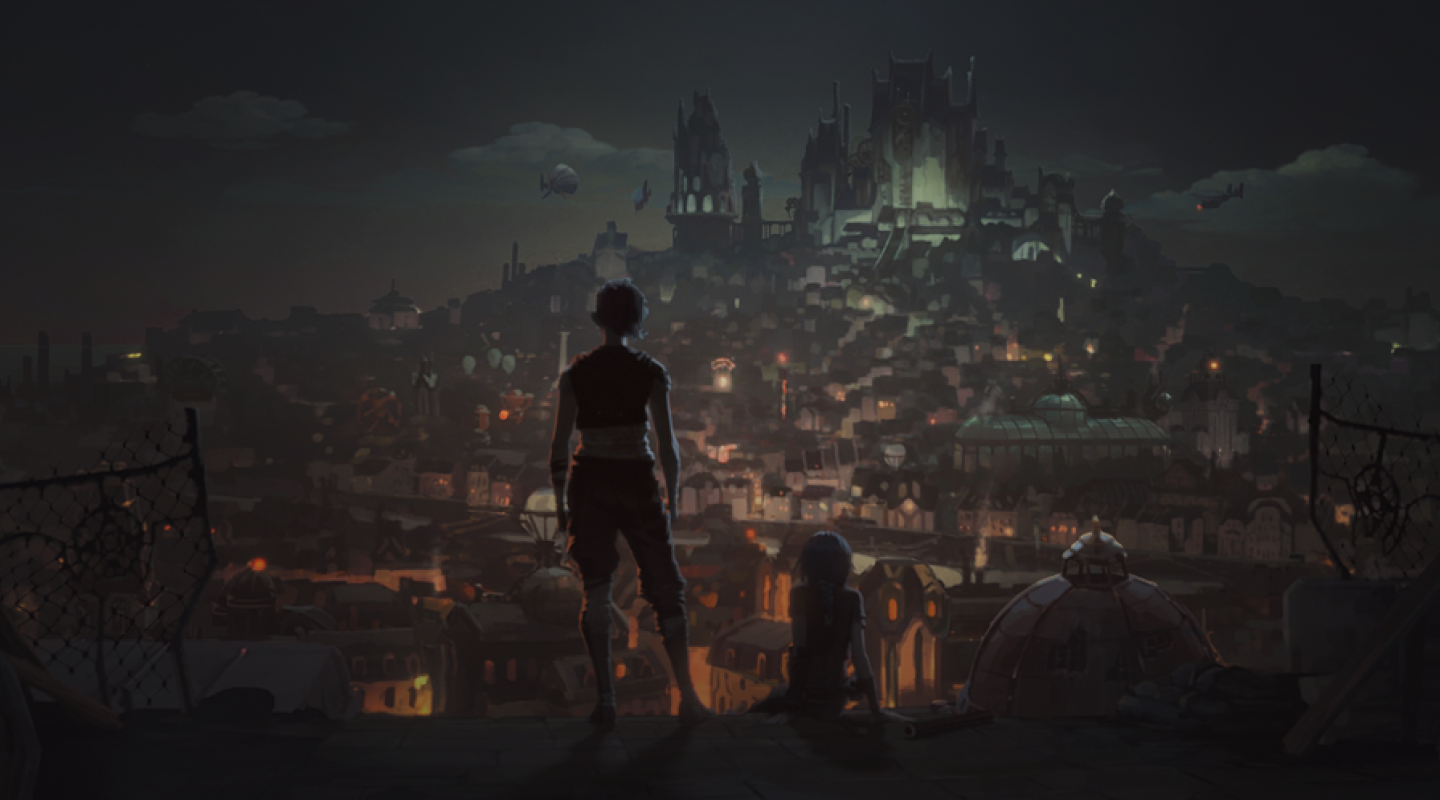
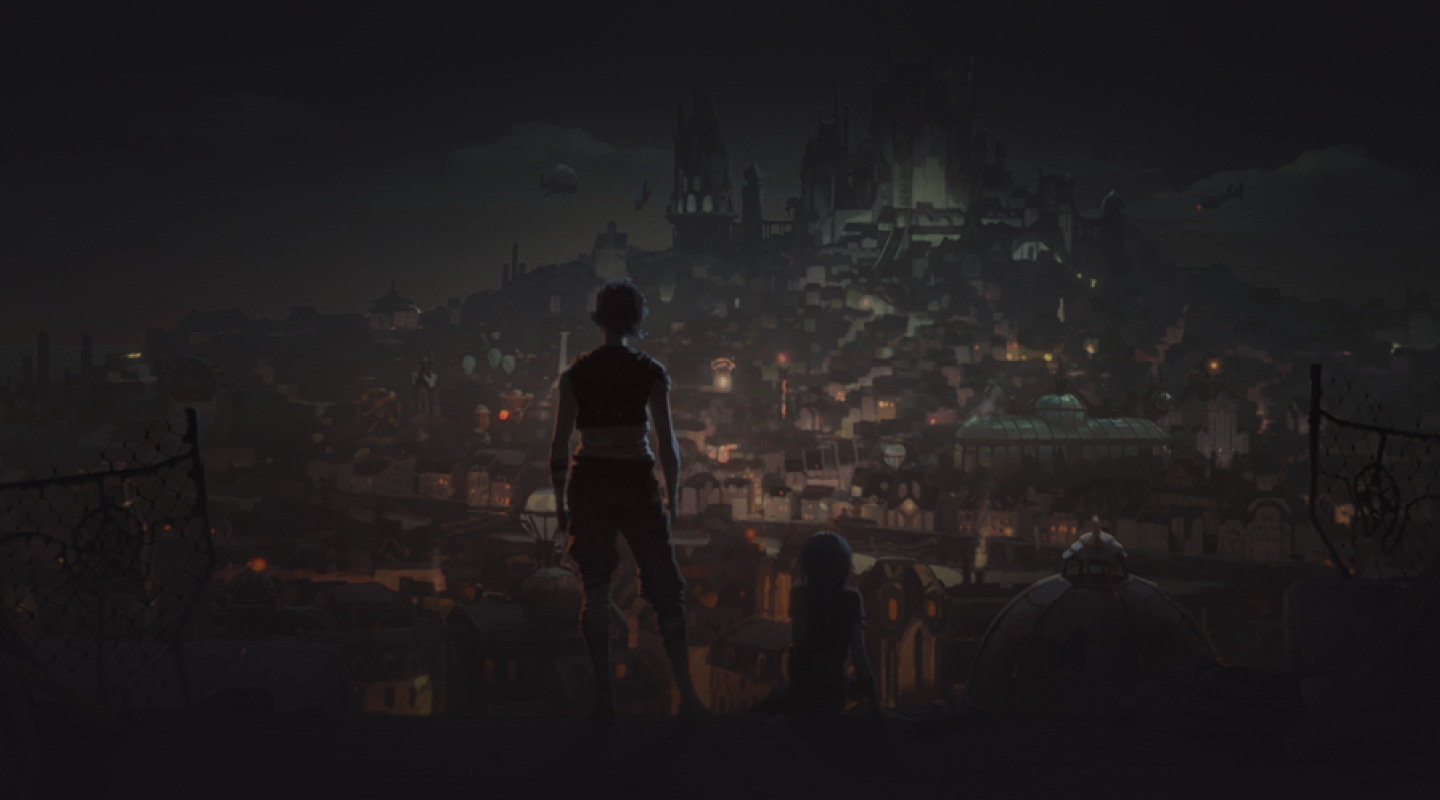
Styles are added to the home page and some images are modified

diff --git a/index.html b/index.html
@@ -1,0 +1,121 @@
+<!DOCTYPE html>
+<html lang="es-Es">
+
+<head>
+    <meta charset="UTF-8">
+    <meta http-equiv="X-UA-Compatible" content="IE=edge">
+    <meta name="viewport" content="width=device-width, initial-scale=1.0">
+    <link rel="stylesheet" type="text/css" href="/css/style.css">
+    <script src="https://kit.fontawesome.com/98bd21cde9.js" crossorigin="anonymous"></script>
+    <title>Arcane</title>
+</head>
+
+<body>
+
+    <header>
+        <nav>
+            <a href="#"><img src="/assets/img/logo.svg" alt="Logo de Arcane"></a>
+            <div class="nav_items">
+                <div class="nav_item item_one">
+                    <a href="#">Episodios</a>
+                    <div>
+                    <img src="/assets/img/vector-nav.svg" alt="vector de item de navbar"></div>
+                </div>
+                <div class="nav_item item_two">
+                    <a href="#">Historia</a>
+                    <img src="/assets/img/vector-nav.svg" alt="vector de item de navbar">
+                </div>
+                <div class="nav_item item_three">
+                    <a href="#">Personajes</a>
+                    <img src="/assets/img/vector-nav.svg" alt="vector de item de navbar">
+                </div>
+            </div>
+        </nav>
+    </header>
+    
+    <main>
+
+        <section class="banner">
+            <img src="/assets/img/index/banner.png" alt="Banner de Arcane" class="banner_background">
+            <div class="banner_information">
+                <img src="/assets/img/index/arcane-oficial-logo.png" alt="Logo oficial de Arcane" class="banner_logo">
+                <h3>Mientras la discordia separa las ciudades gemelas de Piltóver y Zaun, dos hermanas se enfrentan en una guerra feroz entre tecnologías mágicas y convicciones opuestas.</h3>
+                <div class="buttton_container">
+                    <h4>Disponible en</h4>
+                    <button class="button_netflix"><img src="/assets/img/index/logo-Netflix.png" alt="Logo de Netflix"></button>
+                </div>
+            </div>
+        </section>
+
+        <section class="story_summary">
+            <h1>Dos hermanas, dos ciudades y un descubrimiento que cambiará el mundo para siempre.</h1>
+            <img src="/assets/img/vector.svg" alt="vector decorativo" class="vector">
+            <p>En las ciudades de Piltover y Zaun, se palpa el desasosiego en el ambiente: inventores, ladrones, políticos y señores del crimen buscan liberarse de las ataduras de una sociedad fragmentada. Mientras la rebelión va cobrando fuerza, dos hermanas roban un artefacto de poder inimaginable. Los descubrimientos y el peligro son el trasfondo sobre el que nacerán héroes y se romperán vínculos. ¿Servirá este poder para cambiar el mundo o lo llevará a la ruina? Este es el mundo de Arcane.</p>
+        </section>
+
+        <section class="characters">
+            <h1>Personajes</h1>
+            <img src="/assets/img/vector.svg" alt="vector decorativo">
+            <div class="characters_summary">
+                <img src="/assets/img/characters/vi.png" alt="Personaje Vi">
+                <article class="character">
+                    <img src="/assets/img/characters/jinx.png" alt="Personaje Jinx">
+                    <h2>Jinx</h2>  
+                </article>
+                <img src="/assets/img/characters/silco.png" alt="Personaje Silco">
+            </div>
+            <div class="controls">
+                <i class="fa-solid fa-play back"></i>
+                <i class="fa-solid fa-play"></i>
+            </div>
+        </section>
+
+        <section class="episodes">
+            <h1>Episodios</h1>
+            
+            <img src="/assets/img/vector.svg" alt="vector decorativo">
+            <div class="episodes-list">
+                <article class="episode">
+                    <img src="/assets/img/episodes/episodio1.png" alt="Miniatura episodio 1">
+                    <div class="episode_description">
+                        <div class="line"><hr/></div>
+                        <h4>Episodio 1</h4>
+                    </div>
+                </article>
+                <article class="episode">
+                    <img src="/assets/img/episodes/episodio2.png" alt="Miniatura episodio 1">
+                    <div class="episode_description">
+                        <div class="line"><hr/></div>
+                        <h4>Episodio 2</h4>
+                    </div>
+                </article>
+                <article class="episode">
+                    <img src="/assets/img/episodes/episodio3.png" alt="Miniatura episodio 1">
+                    <div class="episode_description">
+                        <div class="line"><hr/></div>
+                        <h4>Episodio 3</h4>
+                    </div>
+                </article>
+            </div>
+            <button>Ver lista de episodios</button>
+        </section>
+
+    </main>
+
+    <footer>
+        <img src="/assets/img/riot_games_logo.png" alt="Logo de Riot Games">
+
+        <div>
+            <div class="social_media">
+                <i class="fa-brands fa-spotify"></i>
+                <i class="fa-brands fa-square-facebook"></i>
+                <i class="fa-brands fa-instagram"></i>
+                <i class="fa-brands fa-twitter"></i>
+            </div>
+            <img src="/assets/img/vector_footer.svg" alt="Vector decorativo">
+        </div>
+    </footer>
+
+</body>
+
+</html>

diff --git a/css/style.css b/css/style.css
@@ -6,6 +6,8 @@
     --nav-footer-color: #0D0B0E;
     --paragraph-color: #FFF6EE;
     --title-color: #F3DCC7;
+    --border-color:#D3A742;
+    --hover-color:#FEBA8B;
 
     --body-font: 'Roboto', sans-serif;
 
@@ -27,22 +29,199 @@ header, footer{
     background-color: var(--nav-footer-color);
 }
 
+nav{
+    display: flex;
+    justify-content: space-between;
+}
+
+.nav_items{
+    display: flex;
+    justify-content: space-around;
+    align-items: center;
+    margin:0 60px;
+    width: 37%;
+}
+
+.nav_item{
+    display: flex;
+    flex-direction: column;
+    align-items: center;
+}
+
+.nav_item img{
+    display: none;
+}
+
 nav a{
     text-decoration: none;
     color: var(--paragraph-color);
-    font-size:25px
+    font-size:25px;
+    padding-left: 5px;
+}
+
+nav a:hover{
+    color: var(--hover-color);
 }
 
 h1{
     color: var(--title-color);
+    font-size: 40px;
+}
+
+.banner{
+    position: relative;
+}
+
+.banner_information{
+    position: absolute;
+    height: 100%;
+    width: 100%;
+    bottom: 0;
+    background: linear-gradient(to left,rgba(0, 0, 0, 0.88), rgba(0, 0, 0, 0.83), rgba(0, 0, 0, 0.326), rgba(0, 0, 0, 0.188));
+    display: flex;
+    flex-direction: column;
+    align-items: center;
+    justify-content: space-around;
+    text-align: end;
+    padding: 50px 100px 50px 50%;
+    font-size: 23px;
 }
 
 .banner_background{
     width: 100%;
 }
 
+.banner_information img{
+    width: 100%;
+}
+
+.buttton_container h4{
+    text-align: center;
+    margin-bottom: 15px;
+    font-weight: 400;
+}
+
+.button_netflix{
+    background-color: black;
+    padding: 0px 50px;
+    border: 1px solid var(--border-color);
+}
+
+.story_summary{
+    background: url('/assets/img/index/story_background.png') no-repeat center/cover;
+    padding:80px 30% 80px 0px;
+}
+
+.story_summary img{
+    width: 100%;
+}
+
+.story_summary h1{
+    width: 70%;
+    text-align: center;
+    margin: auto;
+}
+
+.story_summary p{
+    font-size: 22px;
+    margin: 40px auto;
+    width: 90%;
+}
+
+.characters, .episodes{
+    text-align: center;
+    padding: 40px;
+}
+
+
+.characters_summary{
+    display: flex;
+    justify-content: space-around;
+    padding: 40px;
+    background: url('/assets/img/index/vector-bg.png') no-repeat center/cover;
+    background-position-y: 200px
+}
+
+.character h2{
+    font-size: 35px;
+    margin-top: 30px;
+}
+
+.characters_summary img{
+    height: 350px;
+    width: 350px;
+    border-radius: 50%;
+    padding: 10px;
+    background: linear-gradient(#804524, #92613D, #D29466, #804524);
+}
+
+.controls{
+    width: 350px;
+    display: flex;
+    justify-content: space-between;
+    margin: -80px auto auto auto;
+}
+
+.controls i{
+    font-size: 40px;
+}
+
+.back{
+    transform: rotate(180deg);
+}
+
+.episodes-list{
+    display: flex;
+    justify-content: space-around;
+    padding: 40px;
+}
+
+.episodes{
+    background: url('/assets/img/index/episodes_background.png');
+}
+
+.episode{
+    border: 1px solid #92613D;
+    position: relative;
+}
+
+.episode_description{
+    width: 100%;
+    position: absolute;
+    top: 5px;
+    display: flex;
+    align-items: center;
+    justify-content: space-around;
+}
+
+.line{
+    width: 65%;
+}
+
+.episodes button{
+    background-color: var(--blue-color);
+    padding: 15px 40px;
+    color: white;
+    border: 1px solid var(--border-color);
+    font-size: 22px;
+}
+
+footer{
+    display: flex;
+    justify-content: space-between;
+    align-items: center;
+    padding: 40px 0px 40px 80px;
+}
+
+.social_media{
+    width: 50%;
+    margin: auto auto -10px;
+}
+
 .social_media i{
     color: white;
+    font-size: 25px;
+    margin: 10px 10px 0px 10px;
 }
 
 
